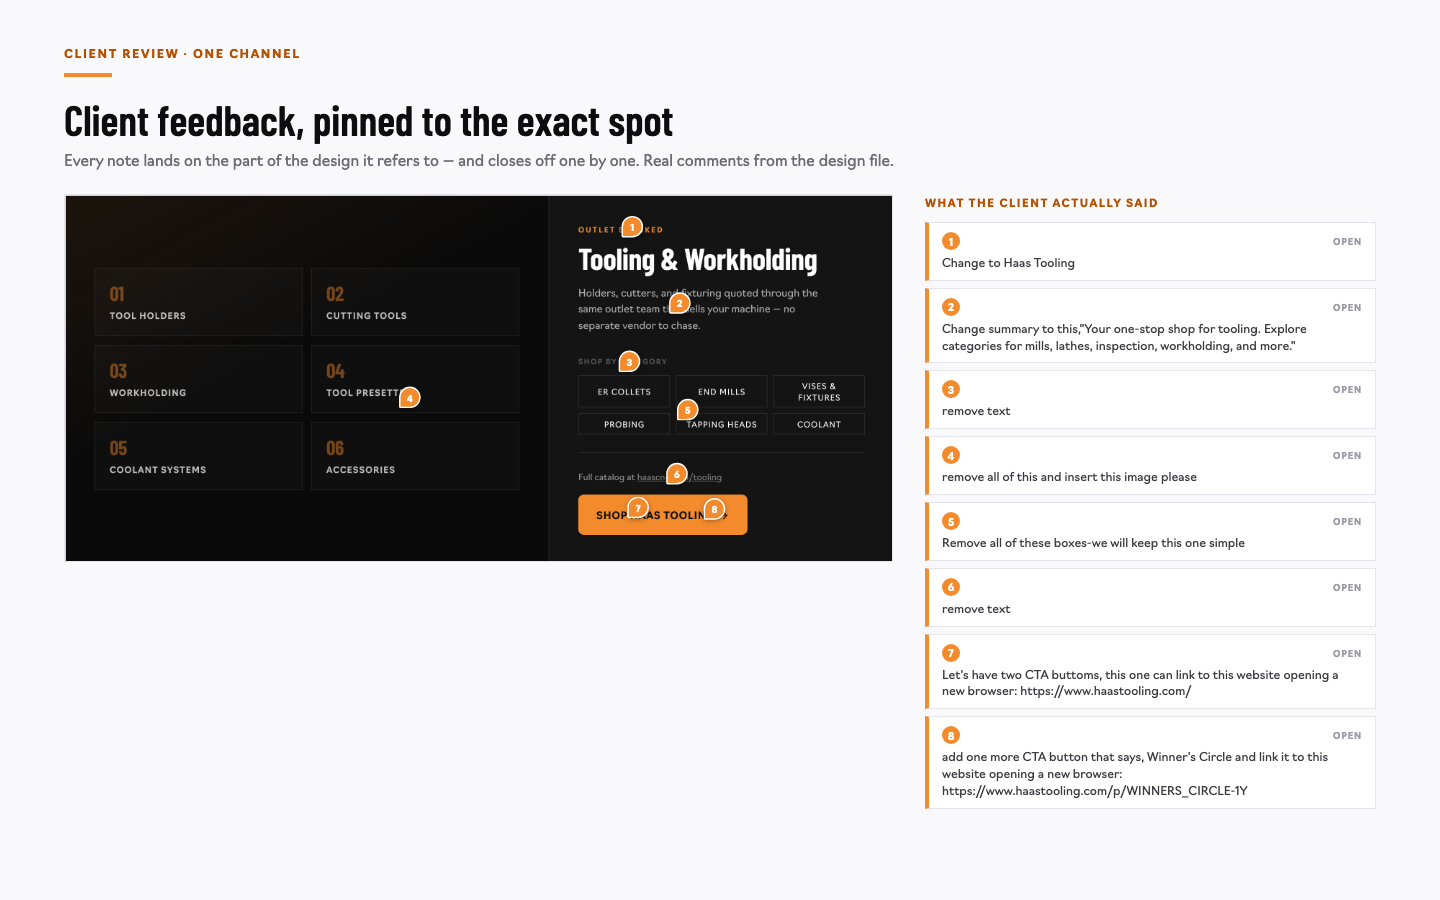
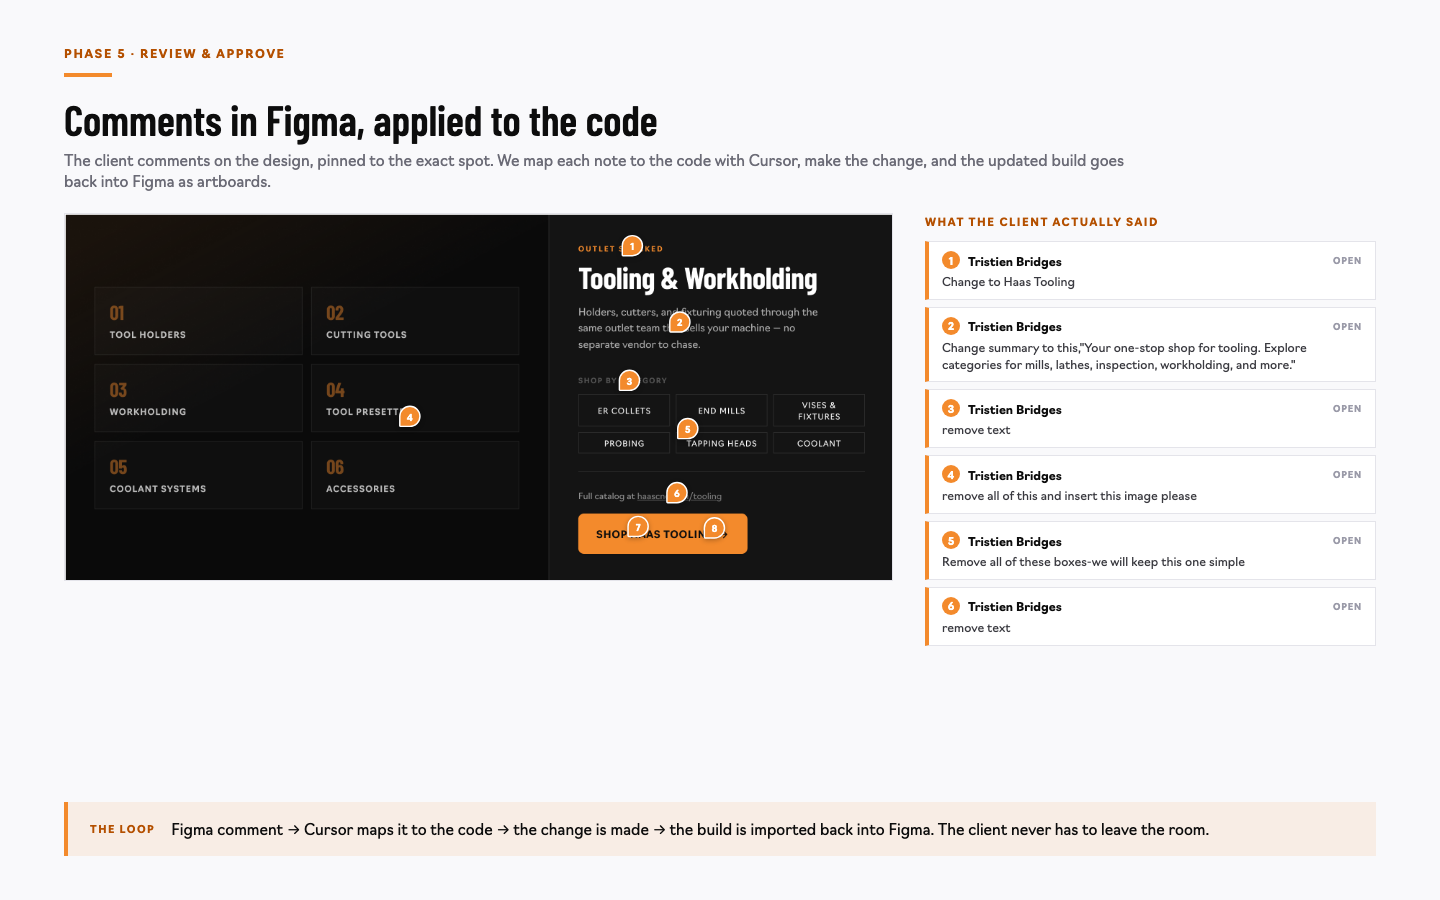
Wireframes are code too; Figma comments map to code via Cursor
Two more corrections, which reinforce the real thesis: everything is
made in code, and Figma is always the presentation layer.

- Wireframes are built in code and presented in Figma, not drawn in
  Figma. Code makes a content update a five-minute edit rather than
  hours of frame-by-frame changes.
- Figma comments are mapped to the code with Cursor: comment -> map to
  code -> change made -> build re-imported into Figma as artboards.

Regenerates wireframes, figma-room and feedback-channel sheets. Updates
the title lede, phase map, prototype slide (content updates in minutes)
and the checklist, now ten items. Phase map gets a filler cell so the
seven-item grid doesn't show a grey gap.

diff --git a/case-study/gerotech-process-playbook.html b/case-study/gerotech-process-playbook.html
@@ -341,7 +341,7 @@
     <div class="slide__inner">
       <p class="eyebrow">Internal process playbook</p>
       <h1 class="slide__title">From kickoff call to a <span class="accent">dev-ready</span> build</h1>
-      <p class="lede">Figma is where the client sees and discusses everything. The code prototype is how we make the design fast, responsive and real — and it becomes the build. Seven phases, taught from the Gerotech redesign.</p>
+      <p class="lede">Everything we make — wireframes, designs, the build itself — is made in code and presented in Figma, where the client sees it and comments. That's why a content change takes minutes, not hours. Seven phases, taught from the Gerotech redesign.</p>
       <div style="margin-top:28px;font-size:clamp(12px,.9vw,14px);letter-spacing:.06em;text-transform:uppercase;color:rgba(255,255,255,.55);line-height:2">
         Discovery &nbsp;·&nbsp; Sitemap &nbsp;·&nbsp; Wireframes &nbsp;·&nbsp; Design &nbsp;·&nbsp; Review &nbsp;·&nbsp; Convert &nbsp;·&nbsp; Hand off
       </div>
@@ -361,11 +361,12 @@
       <div class="phases">
         <div class="phase"><span class="phase__num">01</span><span class="phase__name">Kickoff &amp; discovery</span><span class="phase__why">Understand the business, audit what exists, agree what success looks like.</span></div>
         <div class="phase"><span class="phase__num">02</span><span class="phase__name">Sitemap</span><span class="phase__why">Agree the structure and navigation before anything is designed.</span></div>
-        <div class="phase"><span class="phase__num">03</span><span class="phase__name">Wireframes</span><span class="phase__why">Settle content, hierarchy and section order — in Figma.</span></div>
-        <div class="phase"><span class="phase__num">04</span><span class="phase__name">Design</span><span class="phase__why">Direction, then the homepage, then every page — Figma and code together.</span></div>
-        <div class="phase"><span class="phase__num">05</span><span class="phase__name">Review &amp; approve</span><span class="phase__why">One feedback channel, tied to the exact spot.</span></div>
+        <div class="phase"><span class="phase__num">03</span><span class="phase__name">Wireframes</span><span class="phase__why">Built in code, presented in Figma — so content changes take minutes.</span></div>
+        <div class="phase"><span class="phase__num">04</span><span class="phase__name">Design</span><span class="phase__why">Moodboards set direction, then every page — built in code, reviewed in Figma.</span></div>
+        <div class="phase"><span class="phase__num">05</span><span class="phase__name">Review &amp; approve</span><span class="phase__why">Comments in Figma, mapped to the code with Cursor.</span></div>
         <div class="phase"><span class="phase__num">06</span><span class="phase__name">Convert to WordPress</span><span class="phase__why">Native editor plus structured fields. No page builder.</span></div>
         <div class="phase"><span class="phase__num">07</span><span class="phase__name">Hand off to dev</span><span class="phase__why">A designed, working front end ready for complex functionality.</span></div>
+        <div class="phase" aria-hidden="true"></div>
       </div>
       <div class="callout">
         <span class="callout__label">Use it when</span>
@@ -441,6 +442,7 @@
             <li><strong>Responsive ideas tested for real.</strong> Breakpoints, stacking and type scaling are judged in a browser, not imagined in a frame.</li>
             <li><strong>Animation concepts the client can watch.</strong> Motion is the hardest thing to review as a static image.</li>
             <li><strong>Layout experiments in minutes.</strong> Try three options before lunch and keep the one that works.</li>
+            <li><strong>Content updates in minutes, not hours.</strong> Change a heading or reorder sections once — no editing frames one by one.</li>
             <li><strong>Internal until design.</strong> Before the design phase it's ours to think in; from there it's what the client sees — through Figma.</li>
           </ul>
           <div class="proof">
@@ -626,10 +628,11 @@
       <ol class="checklist">
         <li>Audit what exists before designing anything.</li>
         <li>Agree the sitemap while changing it is free.</li>
-        <li>Settle structure and content in wireframes — in Figma.</li>
+        <li>Wireframe in code; present it in Figma.</li>
         <li>Set direction with moodboards, then agree the homepage.</li>
-        <li>Design in a loop: code for behaviour, Figma for the conversation.</li>
-        <li>Import code into Figma as artboards so the client reviews it there.</li>
+        <li>Design in code; keep Figma in step.</li>
+        <li>Import the build into Figma as artboards for review.</li>
+        <li>Map every Figma comment to the code with Cursor.</li>
         <li>One feedback channel, tied to a spot and an owner.</li>
         <li>Convert with the native editor plus structured fields — no builder.</li>
         <li>Hand dev a working front end, not a mockup.</li>

diff --git a/case-study/speaker-notes.md b/case-study/speaker-notes.md
@@ -16,19 +16,17 @@
 
 ## The one thing to land
 
-> **Figma is the room.** Everything the client sees and discusses happens there. **Code is the engine** — it's how we make the design responsive, animated and real, and it becomes the build.
-
-And the bridge that makes both work: the code prototype goes **back into Figma as artboards**, so the client always reviews in the room they know.
+> **Everything is built in code. Figma is where it's presented.** Wireframes, designs and the build itself are all made in code and shown in Figma, where the client comments — and those comments are mapped back to the code with Cursor. **That's why a content change takes minutes, not hours.**
 
 ## The three sentences that carry the deck
 
-1. **"Figma is the room. Code is how we make it, not where they review it."** (slide 3)
-2. **"Code for the hard-to-judge parts, back into Figma for the conversation."** (slide 10)
+1. **"Everything is built in code. Figma is where it's presented and discussed."** (slide 3)
+2. **"A wireframe content change is a five-minute edit — not hours of updating frames."** (slide 6)
 3. **"We hand dev a designed front end that's ready for the complex functionality our clients need."** (slide 16)
 
 ## Tone rules
 
-- The two tools are **not competitors**. If you catch yourself saying "we design in code instead of Figma", stop — that's the version we corrected.
+- The two tools are **not competitors**, and code is not "instead of" Figma. **Everything is built in code; Figma is where it's presented.** If you catch yourself saying "we design in code instead of Figma", stop — that's a version we corrected twice.
 - Talk in outcomes and decisions, never technology.
 - Never say "zero licences". The precise claim is on slide 17 — use it exactly.
 - Phases 1–3 are the ones teams skip. Say why skipping them makes phases 4–5 expensive.
@@ -44,8 +42,8 @@ Name the format: a **process in seven phases**, with Gerotech as the worked exam
 Walk the seven phases, one line each. Do not go into detail — this is the map. Then the "use it when" line: bespoke design, client needs to edit, project will grow.
 
 ### 03 · Figma is the room *(figure slide)*
-**This slide sets up everything after it.** Wireframes, moodboards, designs and comments all live in Figma. That's where the client sees the work and where the conversation happens.
-Say it plainly: *Figma is the room. Code is how we make it, not where they review it.*
+**This slide sets up everything after it.** Wireframes, moodboards, designs and comments all live in Figma — but **every one of them is built in code first**. Figma is the presentation and conversation layer; code is where the work is made.
+Say it plainly: *everything is built in code, and Figma is where it's presented.*
 
 ### 04 · Phase 1 — Kickoff & discovery *(figure slide)*
 We audit the live site before designing anything, so the redesign is grounded in facts.
@@ -55,19 +53,21 @@ The finding that shaped Gerotech: **the client could not edit their own content.
 The structure is agreed before any design work, when changing it is free.
 One decision here gets reused everywhere — navigation, mega-menu, mobile menu, breadcrumbs, search.
 
-### 06 · Phase 3 — Wireframes *(figure slide)*
-Structure before style. This is a **real wireframe** — grey boxes where photography goes, placeholder copy, declared image ratios. It goes into Figma, so the client reviews and comments there.
-Every section here becomes a section in the built page, in the same order.
+### 06 · Phase 3 — Wireframes *(figure slide — the content-speed argument)*
+**Wireframes are built in code too**, then imported into Figma so the client reviews and comments there.
+The reason is speed: text and section order live in one place, not repeated across dozens of drawn frames. **Changing wireframe content is a five-minute edit — not hours of updating frames one by one.**
+Structure before style still applies: copy and section order get settled while changes are still cheap, and every section here becomes a section in the built page, in the same order.
 
 ### 07 · Phase 4 — Design & iterate *(figure slide — the heart of the method)*
 Moodboards and reference sites set the direction; the homepage is agreed; then every page is designed in a loop between Figma and code.
 **Neither tool does the other's job:** Figma is where the design is presented and discussed; code is where responsive behaviour and motion are worked out. Because it runs both ways, neither copy drifts.
 
 ### 08 · What the code prototype adds
-**Frame the prototype correctly** — it isn't a rival to Figma. It's how we settle the things Figma is bad at judging:
+**Frame this correctly** — code isn't a rival to Figma. It's where everything is actually made, and it's how we settle the things Figma is bad at judging:
 - Responsive ideas tested for real (breakpoints, stacking, type scaling)
 - Animation concepts the client can actually watch
 - Layout experiments in minutes
+- **Content updates in minutes, not hours** — change a heading or reorder sections once, not frame by frame
 Also make the sequencing clear: **internal until design**, client-facing from the design phase onward.
 
 ### 09 · Every page, one system
@@ -75,13 +75,13 @@ The commercial point: new pages are **variations, not new decisions**. A shared 
 Responsive is built as we go, not retrofitted at the end.
 
 ### 10 · HTML → Figma artboards *(figure slide)*
-**The bridge that makes the two-tool approach work.** Work built in code goes back into Figma as editable artboards, so the client reviews it in the room they already use.
-This is the piece people miss: it's not "design in Figma *or* code". It's code for the hard-to-judge parts, back into Figma for the conversation.
+**The bridge that makes the whole approach work** — and it applies to wireframes as well as finished designs. Work built in code goes back into Figma as editable artboards, so the client reviews it in the room they already use.
+This is the piece people miss: it's not "Figma *or* code". It's built in code, presented in Figma.
 Tool: **html.to.design** — a Chrome extension plus a Figma plugin.
 
 ### 11 · Phase 5 — Review & approve *(figure slide)*
 One feedback channel, in Figma. Notes attach to the exact spot, and each becomes a tracked item with an owner.
-Real comments from the Gerotech file. The benefit: a long review cycle never turns into an argument about what was agreed.
+**The mechanism:** we map each Figma comment to the code **with Cursor**, make the change, and the updated build is imported back into Figma as artboards. The client never has to leave the room — and nothing is lost in translation.
 
 ### 12 · The style guide *(figure slide)*
 **Runs across every phase.** Decide the rules once — colour, type, spacing — then every page is a variation.
@@ -120,7 +120,7 @@ The rule that prevents the worst failure: a control can render the design perfec
 Real output: 279 of 291 controls applied. The other 12 are correct by design — a blank colour choice means "keep the design colour".
 
 ### 19 · The checklist
-**The slide to keep.** Read the nine items aloud, slowly.
+**The slide to keep.** Read the ten items aloud, slowly.
 
 ### 20 · Watch out for these
 Priority key: **1** could have blocked the client from editing or damaged the approved design; **3** was friction. Every row leads with the fix.
@@ -143,13 +143,16 @@ Two decisions:
 ## Likely questions
 
 **"Do we design in Figma or in code?"**
-Both, and they do different jobs. Figma is where the design is presented, discussed and approved. Code is where responsive behaviour and motion are worked out, because those are far quicker to judge in a browser. We keep them in step.
+Both, but they do different jobs. **Everything is built in code** — wireframes included. **Figma is where it's presented, discussed and approved.** Code is also where responsive behaviour and motion are worked out, because those are far quicker to judge in a browser.
 
-**"Isn't designing in code slower?"**
-It's faster to *finish*. Changes take minutes instead of a redraw and re-export, and there's no translation step later where detail gets lost. Nine days from kickoff to a client-ready draft.
+**"Isn't building wireframes in code slower?"**
+It's much faster to *change*. In drawn frames, updating copy across a wireframe means editing every frame that repeats it — hours. In code, text and structure live in one place, so it's a **five-minute edit**, and the client sees the result immediately.
 
 **"Why put code back into Figma?"**
-Because the client reviews and comments in Figma. Artboards keep the design file complete and presentable without slowing the build down.
+Because the client reviews and comments in Figma. Artboards keep the design file complete and presentable without slowing the build down — and they're how the comment-to-code loop works.
+
+**"How do Figma comments actually get actioned?"**
+We map each comment to the code **with Cursor**. The change is made once, in one place, and the updated build is imported back into Figma as artboards. The client comments where the work is and never has to leave the room.
 
 **"Why not use a page builder? The client could edit anything then."**
 We costed it: 46–70 developer days, plus lock-in, and it can't reproduce a bespoke design system from stock components. Editor-plus-fields gives structured editing without the builder.

diff --git a/JOURNAL.md b/JOURNAL.md
@@ -2,6 +2,22 @@
 
 Shared session log for all AI agents. Newest entries at the top.
 
+## 2026-09-23 — CORRECTION 2: wireframes are code too, comments map via Cursor (DSH)
+
+Two more corrections from Matt, both folded in:
+
+1. **Wireframes are also built in code and presented in Figma** — not drawn in Figma. Reinforces the real thesis: **everything is made in code; Figma is always the presentation layer.**
+2. **Code wireframes make content updates a ~5-minute job instead of hours** — text and section order live in one place rather than repeated across dozens of drawn frames.
+3. **Figma comments are mapped to the code using Cursor** — that's the mechanism that closes the loop: client comments in Figma → Cursor maps them to code → change made → build re-imported into Figma as artboards.
+
+**Changes:**
+- `wireframes.png` regenerated: **"Wireframed in code, presented in Figma"**, with the five-minute-edit callout.
+- `feedback-channel.png` regenerated: **"Comments in Figma, applied to the code"**, with the explicit loop `Figma comment → Cursor maps it to the code → change made → re-imported to Figma`. Real pins/quotes re-fetched from the Figma API (node `7283:480`).
+- `figma-room.png` regenerated: panel captions now read "Built in code, reviewed in Figma" / "Built in code, presented in Figma", and the intro says every artefact is code-built.
+- Deck: title lede, phase map (03/04/05 descriptions), prototype slide (new "content updates in minutes, not hours" bullet), and the checklist (now **10 items**, including "Wireframe in code; present it in Figma" and "Map every Figma comment to the code with Cursor").
+- Speaker notes rewritten around the corrected thesis, with new Q&A for "Isn't building wireframes in code slower?" and "How do Figma comments actually get actioned?".
+- Phase map gets an empty filler cell so the 7-item grid doesn't show a grey gap.
+
 ## 2026-09-23 — CORRECTION: Figma is the client room, code is the engine (DSH)
 
 Matt corrected the core premise of the playbook. The previous version's headline — **"Design happens in code, not in a static file"** — implied Figma gets sidelined. **The opposite is true.**
